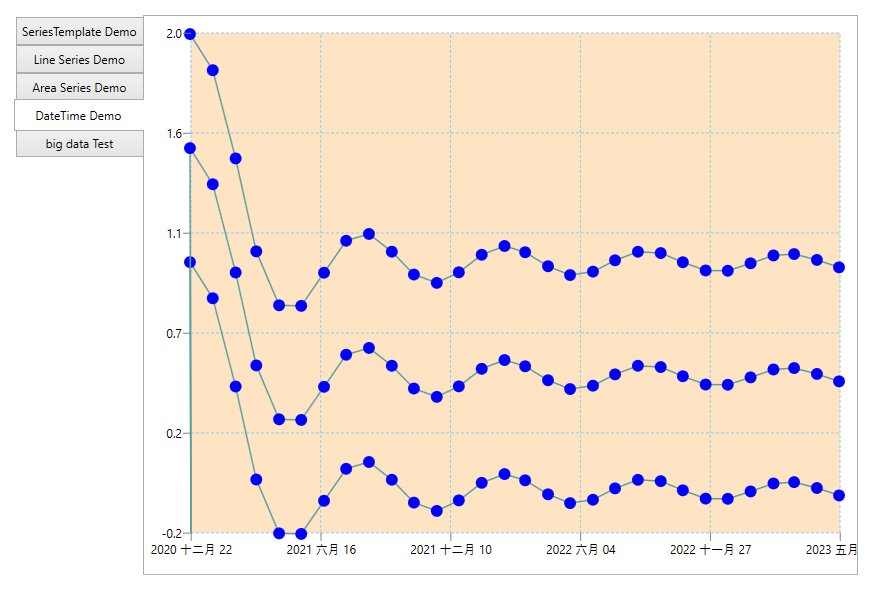
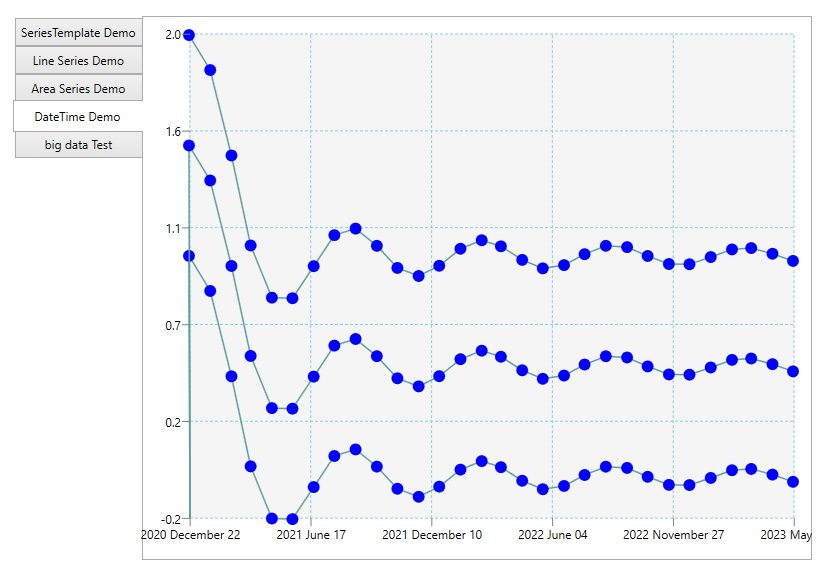
Replace demo image

diff --git a/Demo/MainWindow.xaml b/Demo/MainWindow.xaml
@@ -7,38 +7,34 @@
         mc:Ignorable="d"
         Title="Demo" Height="750" Width="900">
 
-    <Grid >
-        <Grid.RowDefinitions>
-            <RowDefinition Height="*"/>
-            <RowDefinition Height="Auto"/>
-        </Grid.RowDefinitions>
 
-       
 
-        <TabControl TabStripPlacement="Left" Margin="20">
 
-            <TabItem Header="SeriesTemplate Demo" Padding="6">
-                <local:SeriesTemplateDemoView Margin="15"/>
-            </TabItem>
 
-            <TabItem Header="Line Series Demo" Padding="6">
-                <local:LineSeriesDemoView Margin="15"/>
-            </TabItem>
+    <TabControl TabStripPlacement="Left" Margin="20">
 
-            <TabItem Header="Area Series Demo" Padding="6">
-                <local:AreaSeriesDemoView Margin="15"/>
-            </TabItem>
+        <TabItem Header="SeriesTemplate Demo" Padding="6">
+            <local:SeriesTemplateDemoView Margin="15"/>
+        </TabItem>
 
-            <TabItem Header="DateTime Demo" Padding="6">
-                <local:DateTimeDemoView Margin="15"/>
-            </TabItem>
+        <TabItem Header="Line Series Demo" Padding="6">
+            <local:LineSeriesDemoView Margin="15"/>
+        </TabItem>
 
-            <TabItem Header="big data Test" Padding="6">
-                <local:BigDataTestView Margin="15"/>
-            </TabItem>
-        </TabControl>
+        <TabItem Header="Area Series Demo" Padding="6">
+            <local:AreaSeriesDemoView Margin="15"/>
+        </TabItem>
 
- 
+        <TabItem Header="DateTime Demo" Padding="6">
+            <local:DateTimeDemoView Margin="15"/>
+        </TabItem>
+
+        <TabItem Header="big data Test" Padding="6">
+            <local:BigDataTestView Margin="15"/>
+        </TabItem>
+    </TabControl>
+
+
 
 
 </Window>

diff --git a/Demo/View/DateTimeDemoView.xaml b/Demo/View/DateTimeDemoView.xaml
@@ -29,8 +29,7 @@
 
     </UserControl.Resources>
 
-    <mvvmCharting:SeriesChart Background="Bisque"
-                              SeriesDataTemplate="{StaticResource SeriesTemplate}"
+    <mvvmCharting:SeriesChart SeriesDataTemplate="{StaticResource SeriesTemplate}"
                               SeriesItemsSource="{Binding ItemsSourceList, Source={StaticResource TimeSeriesViewModel}}">
 
         <mvvmCharting:SeriesChart.XAxis>

diff --git a/Demo/View/DateTimeDemoView.xaml.cs b/Demo/View/DateTimeDemoView.xaml.cs
@@ -27,7 +27,7 @@ namespace Demo
 
             var t = DoubleValueConverter.DoubleToDateTimeOffset(q);
 
-            return t.ToString("yyyy MMMM dd");
+            return t.ToString("yyyy MMMM dd", new CultureInfo("en-US"));
         }
 
         public object ConvertBack(object value, Type targetType, object parameter, CultureInfo culture)
